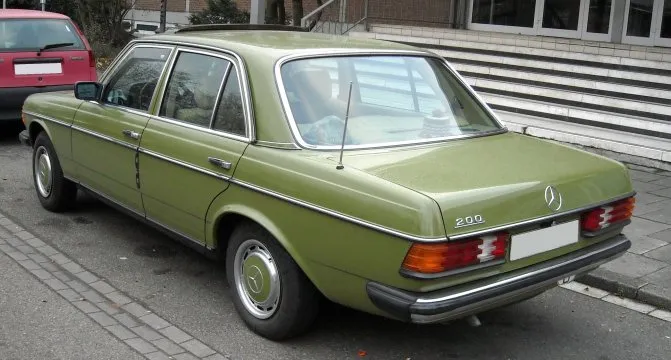
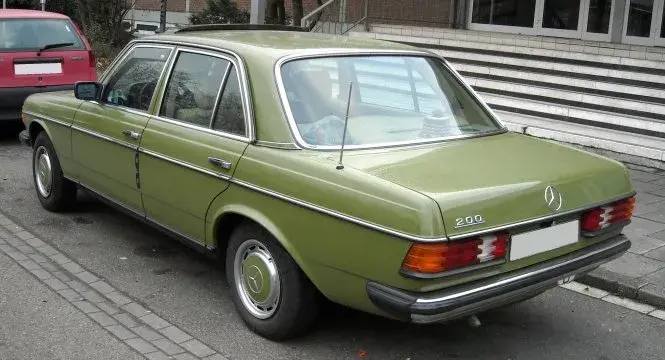
246

diff --git a/pic/ja_mb_img_e.html b/pic/ja_mb_img_e.html
@@ -540,7 +540,7 @@
 					</div>
 					<section>
 						<h4 class="displayNone">W123</h4>
-						<a href="full/e/w123_r.jpg"><img loading="lazy" src="style/e/w123_r.webp" alt="メルセデス,W123,リヤ" width="671" height="360"></a>
+						<a href="full/e/w123_r.jpg"><img loading="lazy" src="style/e/w123_r.webp" alt="メルセデス,W123,リヤ" width="665" height="360"></a>
 						<a href="full/e/w123_d.jpg"><img loading="lazy" src="style/e/w123_d.webp" alt="メルセデス,W123,ダッシュボード" width="540" height="360"></a><br>
 						<h5 class="i">Facelift</h5>
 						<p class="i m1">(1) 08/1976</p>

diff --git a/pic/mb_img_e.html b/pic/mb_img_e.html
@@ -540,7 +540,7 @@
 					</div>
 					<section>
 						<h4 class="displayNone">W123</h4>
-						<a href="full/e/w123_r.jpg"><img loading="lazy" src="style/e/w123_r.webp" alt="Mercedes,W123,Rückansicht" width="671" height="360"></a>
+						<a href="full/e/w123_r.jpg"><img loading="lazy" src="style/e/w123_r.webp" alt="Mercedes,W123,Rückansicht" width="665" height="360"></a>
 						<a href="full/e/w123_d.jpg"><img loading="lazy" src="style/e/w123_d.webp" alt="Mercedes,W123,Instrumententafel" width="540" height="360"></a><br>
 						<h5 class="i">Modellpflege</h5>
 						<p class="i m1">(1) 08/1976</p>

diff --git a/pic/en_mb_img_e.html b/pic/en_mb_img_e.html
@@ -540,7 +540,7 @@
 					</div>
 					<section>
 						<h4 class="displayNone">W123</h4>
-						<a href="full/e/w123_r.jpg"><img loading="lazy" src="style/e/w123_r.webp" alt="Mercedes,W123,Rear view" width="671" height="360"></a>
+						<a href="full/e/w123_r.jpg"><img loading="lazy" src="style/e/w123_r.webp" alt="Mercedes,W123,Rear view" width="665" height="360"></a>
 						<a href="full/e/w123_d.jpg"><img loading="lazy" src="style/e/w123_d.webp" alt="Mercedes,W123,Dashboard" width="540" height="360"></a><br>
 						<h5 class="i">Facelift</h5>
 						<p class="i m1">(1) 08/1976</p>
